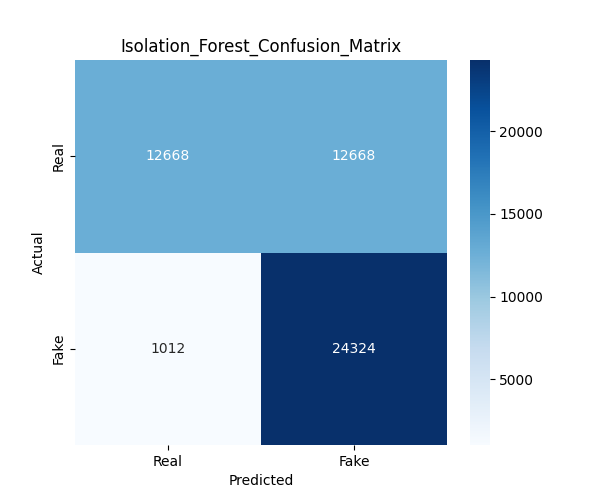
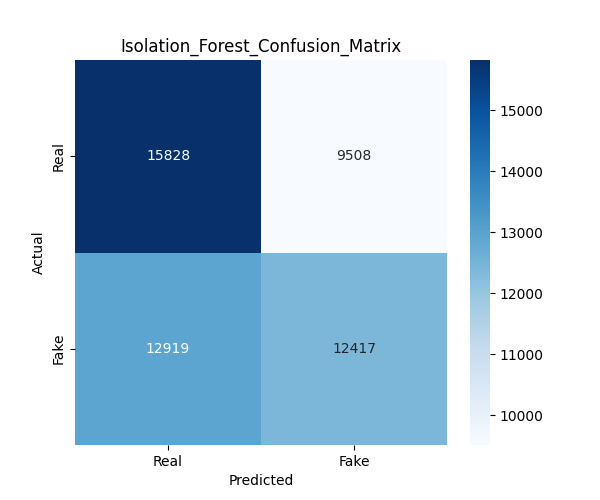
Improve the skewness of the features and adding log on it.

diff --git a/backend/src/post_detect/p4_ml_agent.py b/backend/src/post_detect/p4_ml_agent.py
@@ -9,6 +9,8 @@ from sklearn.preprocessing import StandardScaler
 from sklearn.ensemble import IsolationForest
 from sklearn.neighbors import LocalOutlierFactor
 from sklearn.metrics import (confusion_matrix, accuracy_score, precision_score, recall_score, f1_score)
+from scipy.stats import skew
+from src.post_detect.p3_pca import (apply_pca, plot_pca_scatter, normalize_features, engineer_features)
 
 
 CLEAN_PATH = os.path.join(os.path.dirname(__file__), "..", "..", "..", "data", "cleaned_data.csv")
@@ -16,65 +18,66 @@ OUTPUT_DIR = os.path.join(os.path.dirname(__file__), "..", "..", "outputs", "pos
 
 os.makedirs(OUTPUT_DIR, exist_ok=True)
 
-# Caluclate the lexical diversity score by using the Type-Token RAtio (unique words / total words)
-def compute_lexical_diversity(text_series):
-    eps = 1e-6
-    def ttr(text):
-        if pd.isna(text) or str(text).strip() == "":
-            return 0.0
-        words = str(text).lower().split()
-        return len(set(words)) / (len(words) + eps)
-    
-    return text_series.apply(ttr)
+
+# Plot a log validation diagram
+def validate_log_engineer_features(df: pd.DataFrame) -> None:
+
+    numeric_columns = (df.select_dtypes(include=np.number).columns)
+
+    valid_columns = []
+    skipped_columns = []
+
+    # Check which columns are safe watch out for non-zero variance for skewness
+    for col in numeric_columns:
+
+        min_value = df[col].min()
+
+        if min_value > -1 and df[col].std() > 0:
+            valid_columns.append(col)
+        else:
+            skipped_columns.append(col)
+
+    print("\nSafe Columns:")
+    print(valid_columns)
+
+    print("\nSkipped Columns:")
+    print(skipped_columns)
+
+    # Create subplot
+    num_features = len(valid_columns)
+    rows = (num_features // 3) + 1
+
+    fig, axes = plt.subplots(rows, 3, figsize=(18, rows * 5))
+
+    axes = axes.flatten()
+
+    for i, col in enumerate(valid_columns):
+        clean_data = (df[col].dropna())
+
+        original_skew = skew(clean_data)
+        log_data = np.log1p(clean_data)
+        transformed_skew = skew(log_data)
+
+        print( f"\n{col}")
+
+        print(f"Original Skewness: " f"{original_skew:.2f}")
+
+        print(f"Log Transformed " f"Skewness: " f"{transformed_skew:.2f}")
+
+        axes[i].hist(log_data, bins=30)
+
+        axes[i].set_title(f"Log Distribution\n{col}")
 
 
-def engineer_features(df):
-    eps = 1e-6
-    features = pd.DataFrame(index=df.index)
-
-    # Exclude label-encoded categoricals
-    encoded_categoricals = {
-        "is_fake", "activity_id", "user_id",
-        "post_country", "post_region", "post_city",
-        "device", "platform", "media_type", "content_type", "language",
-    }
-
-    # Get all numerical columns
-    numerical_columns = (df.select_dtypes(include='number').columns)
-
-    # Raw numeric signals (skip encoded categoricals)
-    for col in numerical_columns:
-        if col in df.columns and col not in encoded_categoricals:
-            features[col] = df[col].astype(float)
-
-    # Engagement ratios
-    features["comments_per_like"] = df["comments"] / (df["likes"] + eps)
-    features["shares_per_like"] = df["shares"] / (df["likes"] + eps)
-    features["shares_per_comment"]  = df["shares"] / (df["comments"] + eps)
-    features["total_engagement"] = df["likes"] + df["comments"] + df["shares"]
-    features["engagement_per_char"] = features["total_engagement"] / (df["character_count"] + eps)
-
-    # Content density signals
-    # features["hashtag_density"] = df["hashtag_count"] / (df["character_count"] + eps)
-    # features["mention_density"] = df["mention_count"] / (df["character_count"] + eps)
-    # features["url_per_char"] = df["contains_url"] / (df["character_count"] + eps)
-
-    # Log transforms to reduce skew on count columns
-    features["log_likes"] = np.log1p(df["likes"])
-    features["log_comments"] = np.log1p(df["comments"])
-    features["log_shares"] = np.log1p(df["shares"])
-    features["log_character_count"] = np.log1p(df["character_count"])
-
-    # Lexical diversity from post content using Type-Token Ratio
-    if "content" in df.columns:
-        features["lexical_diversity"] = compute_lexical_diversity(df["content"])
-
-    return features
+    # Remove empty plots
+    for j in range(len(valid_columns), len(axes)):
+        fig.delaxes(axes[j])
 
 
-def scale_features(X_df):
-    scaler = StandardScaler()
-    return scaler.fit_transform(X_df)
+    plt.tight_layout()
+    plt.savefig(os.path.join(OUTPUT_DIR, "all_log_validation_features_engineer_post.png"))
+
+    plt.show()
 
 
 def train_isolation_forest(X_train, X_all, contamination=0.5):
@@ -93,38 +96,6 @@ def train_lof(X_train, X_all, contamination=0.5):
 
     return predictions, scores
 
-
-# Derives feature importance from IsolationForest by counting how many time 
-# each feature is used as a split node across all trees, the more it splits, the more useeful the features is.
-def plot_feature_importance(if_model, feature_names, title="Feature_Importance_IF"):
-    n_features = len(feature_names)
-    importances = np.zeros(n_features)
-
-    for tree in if_model.estimators_:
-        for feature_idx in tree.tree_.feature:
-            if feature_idx >= 0:
-                importances[feature_idx] += 1
-
-    total = importances.sum()
-    if total > 0:
-        importances /= total
-
-    sorted_idx = np.argsort(importances)
-    sorted_names = [feature_names[i] for i in sorted_idx]
-    sorted_vals  = importances[sorted_idx]
-
-    plt.figure(figsize=(8, max(4, n_features * 0.35)))
-    plt.barh(sorted_names, sorted_vals, color="#4f6ef7")
-    plt.xlabel("Relative Importance (split frequency)")
-    plt.title(title.replace("_", " "))
-    plt.tight_layout()
-    plt.savefig(os.path.join(OUTPUT_DIR, f"{title}_post.png"))
-    plt.close()
-
-    print("\n")
-    print("Print top 5 imporantce features: ")
-    for name, val in sorted(zip(feature_names, importances), key=lambda x: -x[1])[:5]:
-        print(f"{name}: {val:.4f}")
 
 
 def plot_anomaly_results(predictions, title):
@@ -164,17 +135,24 @@ def evaluate_model(y_true, y_pred, model_name):
 
     return accuracy, precision, recall, f1
 
+# Circular process of checking the enginnering features
+def check_enginner_features(df):
+    X_eng = engineer_features(df)
+    validate_log_engineer_features(X_eng)
+    X_scaled = normalize_features(X_eng)
+    pca, X_pca = apply_pca(X_scaled)
+    plot_pca_scatter(X_pca, df)
+
 
 def main(df, X_pca=None):
     # Change the is fake from Boolean to Integer
     y_true = df["is_fake"].astype(bool).astype(int).values
-
-    X_eng = engineer_features(df)
-    X_scaled = scale_features(X_eng)
+    X_scaled = X_pca
 
     CONTAMINATION = 0.5
 
     X_normal = X_scaled[~df["is_fake"].astype(bool)]
+    # X_normal = X_pca
 
     # Train Isolation Forest model
     if_model, if_preds, if_score = train_isolation_forest(X_normal, X_scaled, CONTAMINATION)
@@ -182,7 +160,6 @@ def main(df, X_pca=None):
     print("\nIsolation Forest raw predictions")
     print(pd.Series(if_preds).value_counts())
     plot_anomaly_results(if_preds, "Isolation_Forest_Result")
-    plot_feature_importance(if_model, list(X_eng.columns), "Feature_Importance_IF")
 
     # Convert raw predictions where -1 (anomaly) means 1 (fake), and 1 (normal) means 0 (real)
     if_y_pred = (if_preds == -1).astype(int)
@@ -202,3 +179,4 @@ def main(df, X_pca=None):
     evaluate_model(y_true, lof_y_pred, "Local Outlier Factor")
 
     return if_preds, lof_preds
+    

diff --git a/backend/src/post_detect/p3_pca.py b/backend/src/post_detect/p3_pca.py
@@ -9,6 +9,7 @@ from sklearn.preprocessing import StandardScaler
 from sklearn.decomposition import PCA
 from scipy.stats import skew
 import json
+from sklearn.preprocessing import RobustScaler
 
 
 # Get the cleaned dataset path
@@ -25,6 +26,64 @@ os.makedirs(OUTPUT_DIR, exist_ok=True)
 def load_dataset():
     df = pd.read_csv(CLEAN_PATH)
     return df
+
+
+# Caluclate the lexical diversity score by using the Type-Token RAtio (unique words / total words)
+def compute_lexical_diversity(text_series):
+    eps = 1e-6
+    def ttr(text):
+        if pd.isna(text) or str(text).strip() == "":
+            return 0.0
+        words = str(text).lower().split()
+        return len(set(words)) / (len(words) + eps)
+    
+    return text_series.apply(ttr)
+
+
+def engineer_features(df):
+    eps = 1e-6
+    features = pd.DataFrame(index=df.index)
+
+    # Exclude label-encoded categoricals
+    encoded_categoricals = {
+        "is_fake", "activity_id", "user_id",
+        "post_country", "post_region", "post_city",
+        "device", "platform", "media_type", "content_type", "language", "contains_url",
+        "has_media", "is_weekend", "day_of_week", "hour_of_day", "hashtag_count", "like", "share", 
+        "comment", "character_count"
+    }
+
+    # Get all numerical columns
+    numerical_columns = (df.select_dtypes(include='number').columns)
+
+    # Raw numeric signals (skip encoded categoricals)
+    for col in numerical_columns:
+        if col in df.columns and col not in encoded_categoricals:
+            features[col] = df[col].astype(float)
+
+    # Engagement ratios
+    features["comments_per_like"] = np.log1p(df["comments"] / (df["likes"] + 1))
+    features["shares_per_like"] = np.log1p(df["shares"] / (df["likes"] + 1))
+    features["shares_per_comment"] = np.log1p(df["shares"] / (df["comments"] + 1))
+    features["total_engagement"] = np.log1p(df["likes"] + df["comments"] + df["shares"])
+    features["engagement_per_char"] = np.log1p((df["likes"] + df["comments"] + df["shares"]) / (df["character_count"] + 1))
+
+    # Content density signals
+    features["hashtag_density"] = np.log1p(df["hashtag_count"] / (df["character_count"] + 1))
+    features["mention_density"] = np.log1p(df["mention_count"] / (df["character_count"] + 1))
+    features["url_per_char"] = np.log1p(df["contains_url"] / (df["character_count"] + 1))
+
+    # Log transforms to reduce skew on count columns
+    features["log_likes"] = np.log1p(df["likes"])
+    features["log_comments"] = np.log1p(df["comments"])
+    features["log_shares"] = np.log1p(df["shares"])
+    features["log_character_count"] = np.log1p(df["character_count"])
+
+    # Lexical diversity from post content using Type-Token Ratio
+    if "content" in df.columns:
+        features["lexical_diversity"] = compute_lexical_diversity(df["content"])
+
+    return features
 
 
 # Select all numerical features
@@ -45,7 +104,7 @@ def select_features(df):
 
 # Normalizes the features
 def normalize_features(X):
-    scaler = StandardScaler()
+    scaler = RobustScaler()
     X_scaled = scaler.fit_transform(X)
 
     return X_scaled
@@ -77,6 +136,11 @@ def plot_pca_scatter(X_pca, df):
     unique_labels = [1, 0]
     colors = ["#d62728", "#2ca02c"]
 
+    if X_pca.shape[1] < 2:
+        print("PCA produced only 1 component — skipping 2D scatter plot.")
+        plt.close()
+        return
+
     for label, color in zip(unique_labels, colors):
         mask = labels == label
         plt.scatter(X_pca[mask, 0], X_pca[mask, 1], alpha=0.4, label=label, color=color, s=10)
@@ -87,7 +151,7 @@ def plot_pca_scatter(X_pca, df):
     plt.title("PCA Projection (colored by REAL vs FAKE Post)")
     plt.legend(title="Performance", markerscale=3)
     plt.savefig(os.path.join(OUTPUT_DIR, "pca_projection_post.png"), dpi=150)
-    plt.show()
+    plt.close()
 
 
 
@@ -106,13 +170,14 @@ def plot_explained_variance(pca):
 
     plt.savefig(os.path.join(OUTPUT_DIR,"pca_variance_post.png"))
 
-    plt.show()
+    plt.close()
 
 
 def perform_PCA(df):
-    X = select_features(df)
-    X_scaled = normalize_features(X)
-
+    # cleaned_df already has engineered features from p1 — only select & normalise
+    # X = select_features(df)
+    X_eng = engineer_features(df)
+    X_scaled = normalize_features(X_eng)
     pca, X_pca = apply_pca(X_scaled)
 
     print("\n")

diff --git a/backend/pipeline.py b/backend/pipeline.py
@@ -5,6 +5,7 @@ from src.post_detect.p1_data_cleaning import clean_dataset
 from src.post_detect.p2_eda import exploratory_analysis
 from src.post_detect.p3_pca import perform_PCA
 from src.post_detect.p4_ml_agent import main as train_model_post
+from src.post_detect.p4_ml_agent import (check_enginner_features)
 
 from src.account_detect.p1_fake_account_cleaning import clean_dataset_account
 from src.account_detect.p2_fake_account_eda import exploratory_analysis_account
@@ -19,6 +20,7 @@ def main():
     cleaned_df = clean_dataset()
     exploratory_analysis(cleaned_df)
     post_pca, X_post_pca = perform_PCA(cleaned_df)
+    # check_enginner_features(cleaned_df)
     if_post_score, lof_post_score = train_model_post(cleaned_df, X_pca=X_post_pca)
 
     # Account Detection
